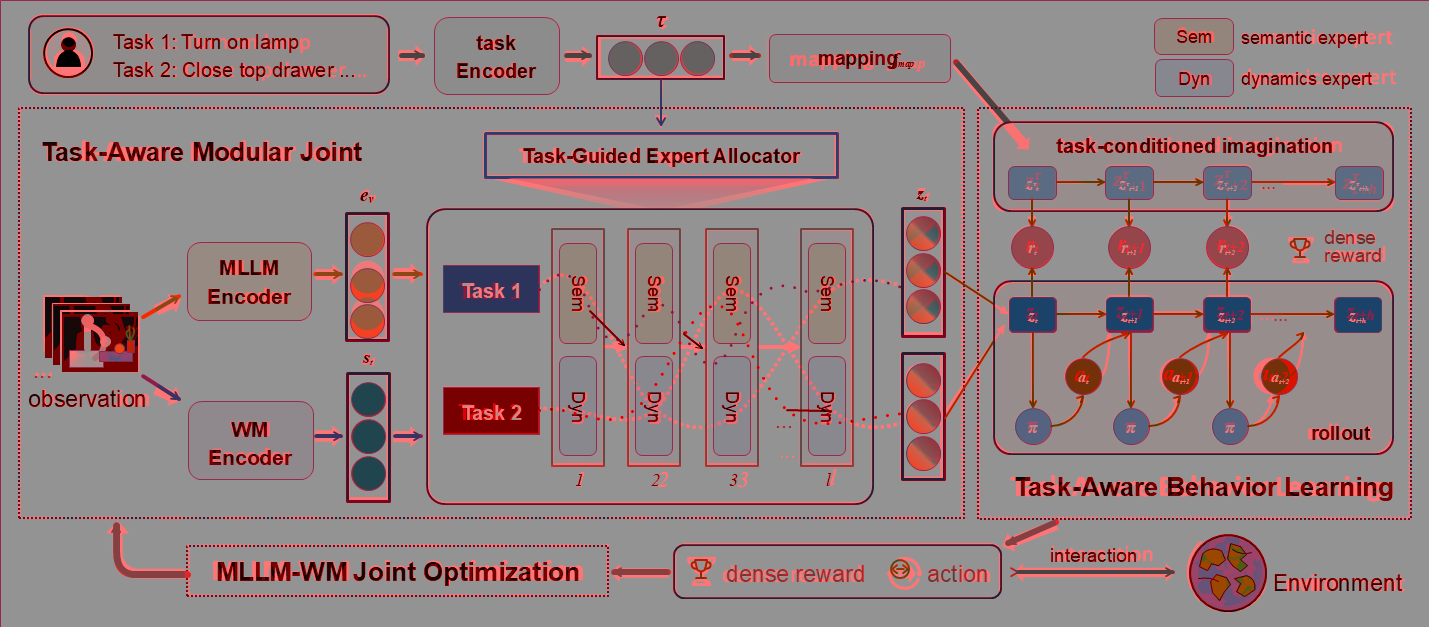
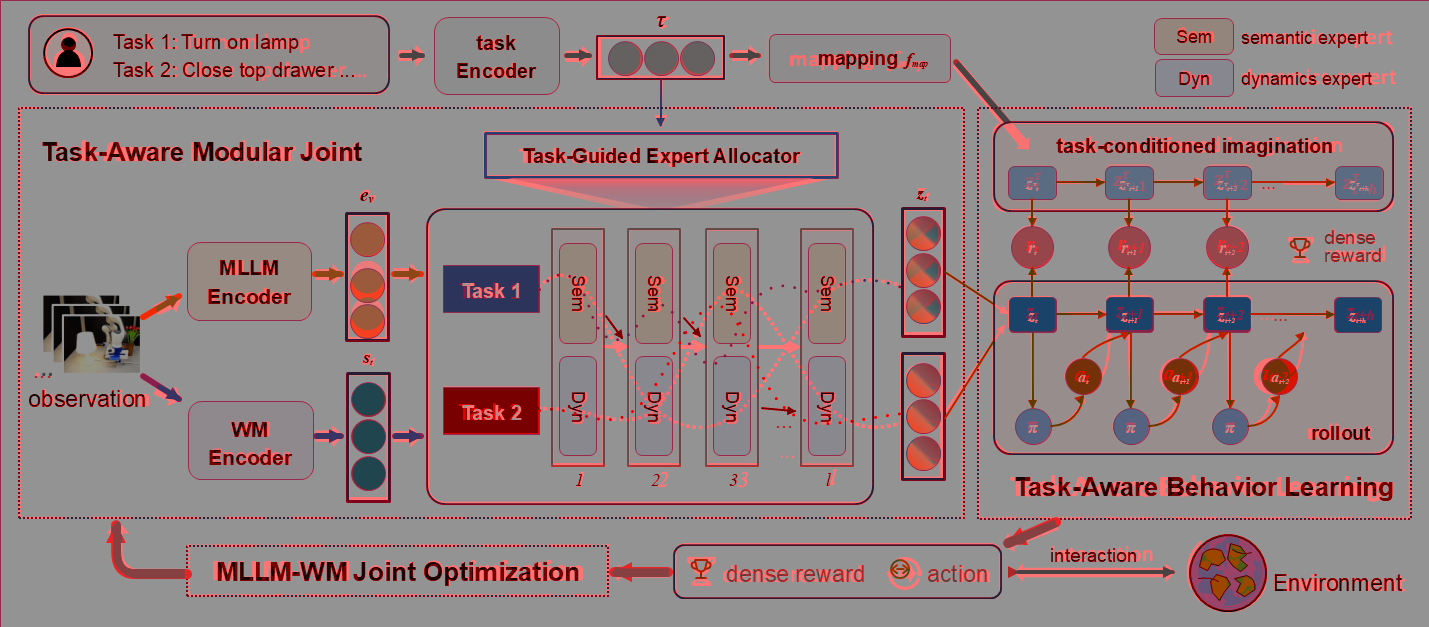
feat: 01-modular-agent 第二圈 — 箭头实心化贴原图 + 照片 atomic 裁剪 + 人审三处版面修复，mean 17.40→16.57

diff --git a/examples/01-modular-agent/prompt.md b/examples/01-modular-agent/prompt.md
@@ -4,12 +4,14 @@
 1. `<svg>` 根元素必须带 `width="1429" height="627" viewBox="0 0 1429 627"`，所有坐标以原图像素为基准，不得缩放。
 2. 所有文字必须逐字照抄原图（含大小写、上下标、希腊字母、标点），用 `<text>`/`<tspan>` 表达；禁止把文字画成路径。
 3. 公式用文本表达：变量斜体 `font-style="italic"`，上下标用 `<tspan baseline-shift="sub|super">`。
-4. 照片、真实场景截图、复杂写实图标：不要重绘，放占位矩形
+4. 照片、真实场景截图、复杂写实图标，以及不含文字且无法高质量矢量还原的写实装饰元素：不要重绘，放占位矩形
    `<rect id="atomic:<语义名>" x=".." y=".." width=".." height=".." fill="#EEEEEE" stroke="#999999" stroke-dasharray="4 3"/>`，
-   位置尺寸与原图该区域一致。除此之外禁止使用 `<image>`。
-5. 渐变用 `<linearGradient>`/`<radialGradient>`；箭头用 `<marker>`；成组元素用 `<g>`。
-6. 只输出 SVG 代码本身，不要任何解释文字。
+   位置尺寸与原图该区域一致。含文字/公式的内容、几何图形、线条、箭头禁止占位。
+5. 箭头的粗细、头部样式（实心/开放/块状）、尺寸、弯折位置与连接关系一律以原图为准，不得套用固定风格：
+   实心头用填充 marker 或整体轮廓 path，开放折线头用描边 marker，块状/楔形/弯折箭头画整体轮廓 path。
+6. 渐变用 `<linearGradient>`；虚线用 `stroke-dasharray`；成组元素用 `<g>`。
+7. 只输出 SVG 代码本身，不要任何解释文字。
 
 【风格要求】
-- 颜色、字号、粗细、对齐、间距尽量贴近原图；虚线用 `stroke-dasharray`。
+- 颜色、字号、粗细、对齐、间距尽量贴近原图。
 - 先整体布局后局部细节，确保每个模块位置与原图一一对应。

diff --git a/examples/README.md b/examples/README.md
@@ -8,8 +8,8 @@
 
 - 论文：*ModularAgent: A Task-Aware Modular Framework for Joint Reasoning*（CVPR 2026）
 - 来源文件：`01_2026_CVPR_2026_ModularAgent_A_Task-Aware_Modular_Framework_for_Join.png`（1429×627）
-- SVG 来源：GPT 网页端直出（2026-08-18）
-- 状态：**完成**。255 个原生对象、66 个文本全部可编辑读回；mean_abs_rgb_delta=17.40、SSIM=0.727、changed=38.97%（诊断口径，全面优于 v1 R10 的 19.9987/0.6535/46.55%）
+- SVG 来源：GPT 网页端直出 R1（2026-08-18）；R2 自批评修订（2026-08-19，Kimi 充当 VLM 环节：箭头全部改实心三角头 + 杆宽贴原图，修复 R1 细杆空心头违约；observation 照片矢量卡通 13 元素收敛为 1 处 `atomic:` 原图裁剪）
+- 状态：**完成（R2 覆盖 R1）**。243 个原生对象、66 个文本读回、SVG 侧未匹配仅 1 条；mean_abs_rgb_delta=16.5748、SSIM=0.7347、changed=38.27%（R1 为 17.3963/0.727/38.97%，v1 R10 为 19.9987/0.6535/46.55%）。R2.1 追加修复人审发现的三处版面问题：粉色箭头杆宽/头部尺寸、专家列黑箭头压字、mapping 与 ƒ_map 间距重叠
 
 ### `02-thinking-diffusion/`
 

diff --git a/README.md b/README.md
@@ -16,7 +16,7 @@ Each preview: top = original paper figure, bottom = native PowerPoint render of 
 
 | 案例 Case | 原生对象 Shapes | 文本读回 Texts | mean↓ | SSIM↑ | changed↓ |
 |---|---:|---:|---:|---:|---:|
-| 01 ModularAgent (1429×627) | 255 | 66 | 17.40 | 0.727 | 38.97% |
+| 01 ModularAgent (1429×627) | 243 | 66 | 16.57 | 0.735 | 38.27% |
 | 02 Thinking Diffusion (1513×554) | 162 | 46 | 13.55 | 0.720 | 17.97% |
 | 03 LLMind (1357×656) | 201 | 34 | **6.77** | **0.870** | **12.90%** |
 
@@ -25,7 +25,7 @@ Each preview: top = original paper figure, bottom = native PowerPoint render of 
 > 对照 v1 重型确定性管线（4 天 / ~30 轮 / 27k LOC）：mean 19.9987 / SSIM 0.6535 / changed 46.55%，已归档 `legacy/`。
 > vs. the archived v1 heavyweight deterministic pipeline (4 days / ~30 rounds / 27k LOC): 19.9987 / 0.6535 / 46.55%.
 
-### 01 · ModularAgent（GPT 直出 SVG → PPTX）
+### 01 · ModularAgent（GPT 直出 SVG + 第二圈自批评修订：箭头实心化贴原图、照片 atomic 裁剪）
 
 ![01-modular-agent](examples/01-modular-agent/preview.png)
 

diff --git a/PROJECT_ARCHITECTURE.md b/PROJECT_ARCHITECTURE.md
@@ -224,7 +224,7 @@ autofigure prepare <ref.png> [--case 名] [--cases-root 目录]
 
 | 案例 | SVG 来源 | 原生对象 | 文本读回 | mean_abs_rgb_delta | SSIM | changed |
 |---|---|---:|---:|---:|---:|---:|
-| 01-modular-agent（1429×627） | GPT 直出 | 255 | 66 | 17.3963 | 0.727 | 38.97% |
+| 01-modular-agent（1429×627） | GPT 直出 + R2 自批评修订（箭头实心化、照片 atomic 化、版面重叠修复） | 243（含 1 处照片裁剪） | 66 | 16.5748 | 0.7347 | 38.27% |
 | 02-thinking-diffusion（1513×554） | 手写验证合同 | 162 | 46（SVG 侧 0 未匹配） | 13.5469 | 0.720 | 17.97% |
 | v1 R10（参考基准） | — | — | — | 19.9987 | 0.6535 | 46.55% |
 | 03-llmind（1357×656） | GPT 直出 + `<image>`→`atomic:` 确定性修正 | 201（含 2 处照片裁剪） | 34 | 6.7743 | 0.8697 | 12.90% |

diff --git a/examples/01-modular-agent/check-report.md b/examples/01-modular-agent/check-report.md
@@ -1,10 +1,10 @@
 # check 报告（advisory，非门禁） — 01-modular-agent
 
 ## 像素诊断（figure_lint，软信号）
-- mean_abs_rgb_delta: 17.3963
-- changed_pixel_ratio: 38.9692%
-- top_roi: {'bbox': {'x': 1000, 'y': 480, 'w': 400, 'h': 147}, 'mean_abs_rgb_delta': 29.7631, 'loss_contribution_pct': 9.2494}
-- ssim: 0.727
+- mean_abs_rgb_delta: 16.5748
+- changed_pixel_ratio: 38.265%
+- top_roi: {'bbox': {'x': 1000, 'y': 480, 'w': 400, 'h': 147}, 'mean_abs_rgb_delta': 29.7743, 'loss_contribution_pct': 9.7035}
+- ssim: 0.7347
 - diff 图: D:\AI+科研\AI智能绘图（最终版）\AI autofigure\examples\01-modular-agent\qa\diff.png
 - 对照预览: D:\AI+科研\AI智能绘图（最终版）\AI autofigure\examples\01-modular-agent\preview.png
 
